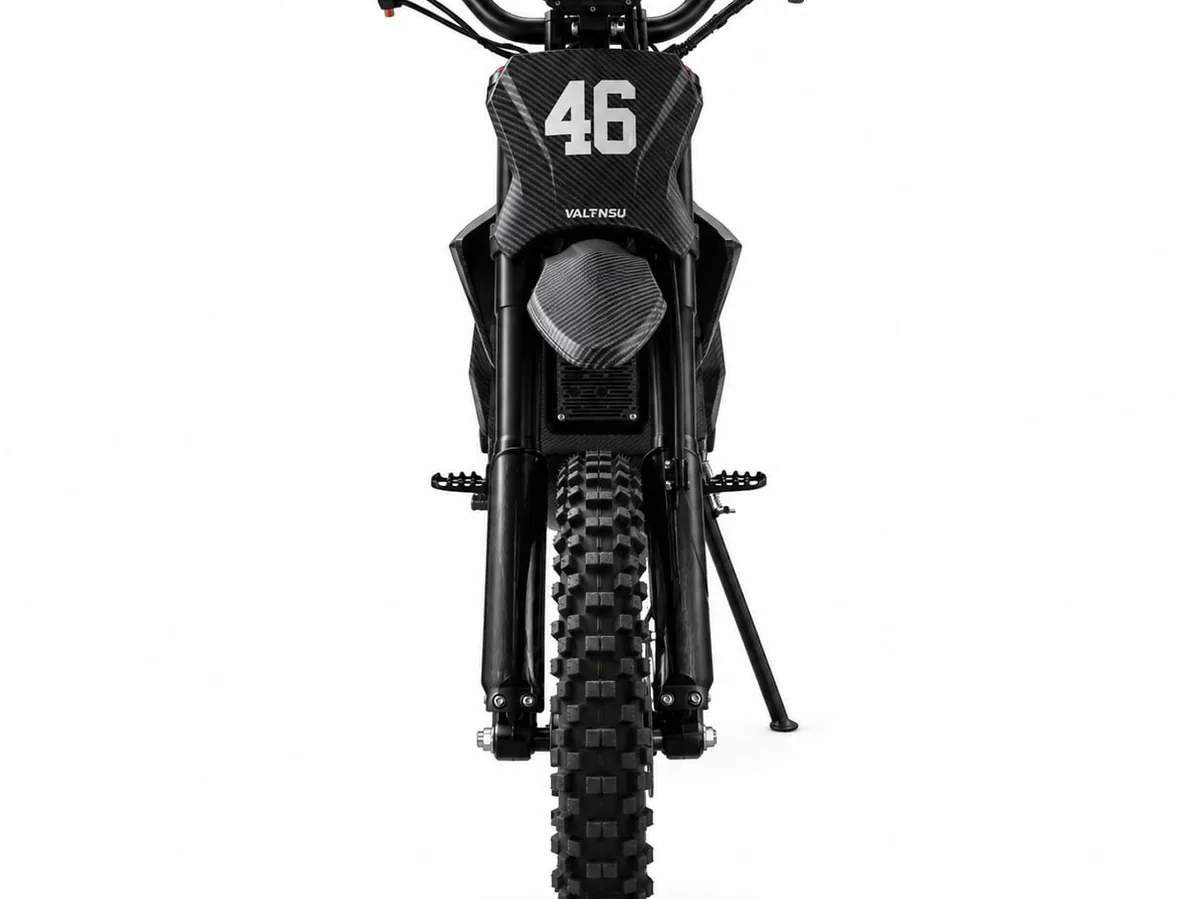
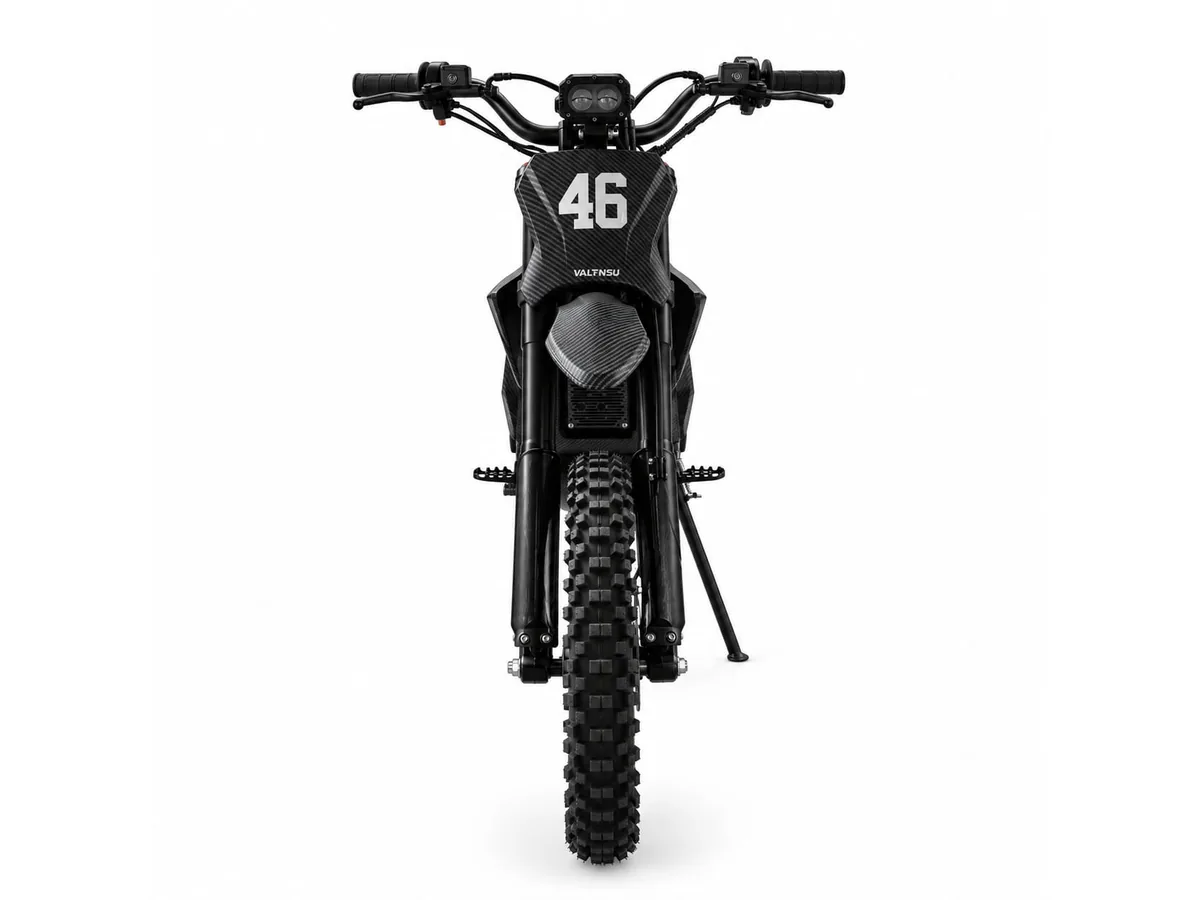
Ultra: fotografije bez rezanja, naslovna prva, gumb Pogled s upravljaca u kutu slike

Changed region(s): [[0.2775, 0.0, 0.7092, 1.0]]

diff --git a/modeli/em-5-ultra.html b/modeli/em-5-ultra.html
@@ -179,7 +179,7 @@
             </svg>
           </button>
 
-          <p class="viewer__count" id="brojac" aria-live="polite">2 / 12</p>
+          <p class="viewer__count" id="brojac" aria-live="polite">1 / 12</p>
         </div>
 
         <script type="application/json" id="kadrovi">
@@ -190,10 +190,6 @@
               "id": "crna",
               "padez": "crnoj",
               "kadrovi": [
-                {
-                  "src": "../assets/motori/em-5-ultra/EM-5-ULTRA-01.webp",
-                  "kadar": "pogled sprijeda"
-                },
                 {
                   "src": "../assets/motori/em-5-ultra/EM-5-ULTRA-02.webp",
                   "kadar": "bok i prednji dio"
@@ -235,12 +231,15 @@
                   "kadar": "desna strana, bočno"
                 },
                 {
+                  "src": "../assets/motori/em-5-ultra/EM-5-ULTRA-01.webp",
+                  "kadar": "pogled sprijeda"
+                },
+                {
                   "src": "../assets/motori/em-5-ultra/EM-5-ULTRA-prednji-dio.webp",
-                  "kadar": "prednji dio, s vozačevog mjesta",
-                  "gumb": "Prednji dio"
+                  "kadar": "pogled s upravljača",
+                  "gumb": "Pogled s upravljača"
                 }
-              ],
-              "pocetak": 1
+              ]
             }
           ]
         }

diff --git a/css/style.css b/css/style.css
@@ -4394,18 +4394,26 @@ button.link-arrow::after {
   .povecalo, .povecalo__slika { transition: none; }
 }
 
-/* Tipke za odredeni kadar ispod galerije (npr. "Prednji dio"). */
-.viewer__gumbi { display: flex; flex-wrap: wrap; gap: .5rem; margin-top: .75rem; }
+/* Tipka za odredeni kadar, u donjem lijevom kutu slike. */
+.viewer__gumbi {
+  position: absolute;
+  z-index: 2;
+  left: .75rem;
+  bottom: .75rem;
+  display: flex;
+  flex-wrap: wrap;
+  gap: .5rem;
+}
 .viewer__kadar {
   padding: .5rem .9rem;
-  border: 2px solid var(--ink);
-  background: var(--paper);
-  color: var(--ink);
+  border: 0;
+  background: var(--ink);
+  color: var(--paper);
   font: inherit;
   font-size: .875rem;
   font-weight: 700;
   cursor: pointer;
   transition: background var(--fast), color var(--fast), border-color var(--fast);
 }
-.viewer__kadar:hover { background: var(--ink); color: var(--paper); }
+.viewer__kadar:hover { background: var(--orange); }
 .viewer__kadar[aria-pressed="true"] { background: var(--orange); border-color: var(--orange); color: var(--paper); }

diff --git a/index.html b/index.html
@@ -230,7 +230,6 @@
       "c": "#181818",
       "akcent": "#4c4c4c",
       "slike": [
-        "assets/motori/em-5-ultra/EM-5-ULTRA-01.webp",
         "assets/motori/em-5-ultra/EM-5-ULTRA-02.webp",
         "assets/motori/em-5-ultra/EM-5-ULTRA-03.webp",
         "assets/motori/em-5-ultra/EM-5-ULTRA-04.webp",
@@ -241,9 +240,9 @@
         "assets/motori/em-5-ultra/EM-5-ULTRA-09.webp",
         "assets/motori/em-5-ultra/EM-5-ULTRA-10.webp",
         "assets/motori/em-5-ultra/EM-5-ULTRA-11.webp",
+        "assets/motori/em-5-ultra/EM-5-ULTRA-01.webp",
         "assets/motori/em-5-ultra/EM-5-ULTRA-prednji-dio.webp"
-      ],
-      "pocetak": 1
+      ]
     }
   ]
 }

diff --git a/modeli.html b/modeli.html
@@ -207,7 +207,6 @@
       "c": "#181818",
       "akcent": "#4c4c4c",
       "slike": [
-        "assets/motori/em-5-ultra/EM-5-ULTRA-01.webp",
         "assets/motori/em-5-ultra/EM-5-ULTRA-02.webp",
         "assets/motori/em-5-ultra/EM-5-ULTRA-03.webp",
         "assets/motori/em-5-ultra/EM-5-ULTRA-04.webp",
@@ -218,9 +217,9 @@
         "assets/motori/em-5-ultra/EM-5-ULTRA-09.webp",
         "assets/motori/em-5-ultra/EM-5-ULTRA-10.webp",
         "assets/motori/em-5-ultra/EM-5-ULTRA-11.webp",
+        "assets/motori/em-5-ultra/EM-5-ULTRA-01.webp",
         "assets/motori/em-5-ultra/EM-5-ULTRA-prednji-dio.webp"
-      ],
-      "pocetak": 1
+      ]
     }
   ]
 }

diff --git a/js/script.js b/js/script.js
@@ -589,7 +589,7 @@
         if (!redGumba) {
           redGumba = document.createElement('div');
           redGumba.className = 'viewer__gumbi';
-          galerija.appendChild(redGumba);
+          pozornica.parentNode.appendChild(redGumba);   /* u okvir slike */
         }
         redGumba.innerHTML = '';
         redGumba.hidden = oznaceni.length === 0;
